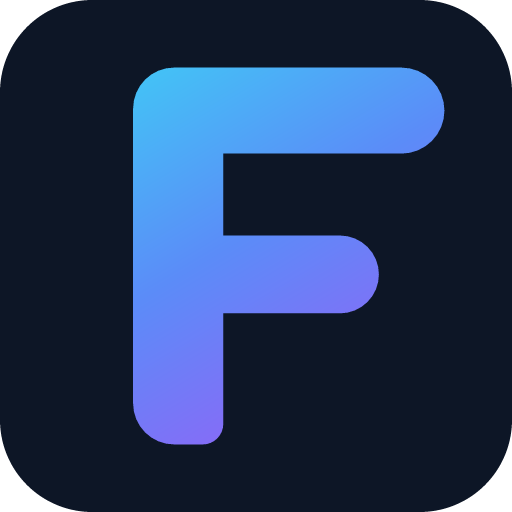
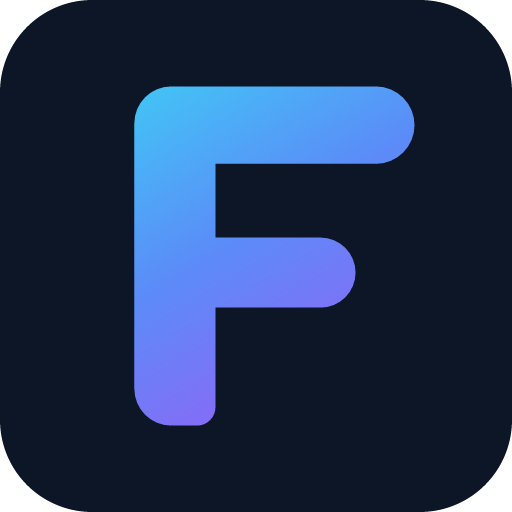
Icône : marge macOS et F recentré
macOS affiche les icônes telles quelles, sans la marge de la grille Apple, donc l'icône paraissait trop grande. Elle a maintenant sa propre image avec marge (packaging/macos/florm.png), les autres systèmes gardent une image pleine. Le F est centré sur son tracé plutôt que sur sa boîte, qui déborde à droite.

Changed region(s): [[0.25, 0.125, 0.875, 0.875]]

diff --git a/src/logo.rs b/src/logo.rs
@@ -204,8 +204,23 @@ pub fn paint_backdrop(painter: &Painter, rect: Rect, light: bool) {
     }
 }
 
-/// Window icon: navy rounded square with the gradient F, 4×4 supersampled.
-pub fn icon(size: usize) -> egui::IconData {
+/// Empty margin around the rounded square of the icon, as a fraction of its side: macOS draws
+/// icons as given (Apple's grid: an 824 px square in a 1024 px canvas), the other systems
+/// expect a full-bleed image.
+#[cfg_attr(not(any(test, target_os = "macos")), allow(dead_code))]
+pub const MACOS_INSET: f32 = 100.0 / 1024.0;
+#[cfg(target_os = "macos")]
+pub const ICON_INSET: f32 = MACOS_INSET;
+#[cfg(not(target_os = "macos"))]
+pub const ICON_INSET: f32 = 0.0;
+/// Height of the F relative to the icon's rounded square.
+const LETTER: f32 = 0.72;
+/// Horizontal point of the F (unit coordinates) put at the center of the icon.
+const LETTER_CX: f32 = 0.53;
+
+/// Window icon: navy rounded square with the gradient F, 4×4 supersampled, `inset` of empty
+/// margin around the square.
+pub fn icon(size: usize, inset: f32) -> egui::IconData {
     let pieces = pieces();
     let inside = |poly: &[Vec2], p: Vec2| {
         let n = poly.len();
@@ -221,16 +236,20 @@ pub fn icon(size: usize) -> egui::IconData {
             let (mut r, mut g, mut b, mut a) = (0.0, 0.0, 0.0, 0.0);
             for sy in 0..ss {
                 for sx in 0..ss {
-                    let u = (x as f32 + (sx as f32 + 0.5) / ss as f32) / size as f32;
-                    let v = (y as f32 + (sy as f32 + 0.5) / ss as f32) / size as f32;
+                    let side = 1.0 - 2.0 * inset;
+                    let u = ((x as f32 + (sx as f32 + 0.5) / ss as f32) / size as f32 - inset) / side;
+                    let v = ((y as f32 + (sy as f32 + 0.5) / ss as f32) / size as f32 - inset) / side;
                     // rounded square background
                     let (dx, dy) = ((u - 0.5).abs() - 0.32, (v - 0.5).abs() - 0.32);
                     let outside = Vec2::new(dx.max(0.0), dy.max(0.0)).length() - 0.18;
                     if outside > 0.0 {
                         continue;
                     }
-                    // letter scaled to 80% inside the square
-                    let p = Vec2::new((u - 0.1) / 0.8, (v - 0.1) / 0.8);
+                    // Letter scaled to LETTER inside the square. Its box (x 0.20..0.96) is wider on
+                    // the right than its ink (the stem is on the left): centering the box would
+                    // push the F to the right, centering the ink to the left, so the point halfway
+                    // between both centers goes in the middle.
+                    let p = Vec2::new((u - 0.5) / LETTER + LETTER_CX, (v - 0.5) / LETTER + 0.5);
                     let c = if pieces.iter().any(|poly| inside(poly, p)) { grad_at(p) } else { NAVY };
                     r += c.r() as f32;
                     g += c.g() as f32;
@@ -245,4 +264,17 @@ pub fn icon(size: usize) -> egui::IconData {
         }
     }
     egui::IconData { rgba, width: size as u32, height: size as u32 }
+}
+
+/// Regenerates the packaging icons: `cargo test --release write_icons -- --ignored`.
+#[cfg(test)]
+mod tests {
+    #[test]
+    #[ignore]
+    fn write_icons() {
+        for (path, inset) in [("packaging/florm.png", 0.0), ("packaging/macos/florm.png", super::MACOS_INSET)] {
+            let icon = super::icon(512, inset);
+            image::RgbaImage::from_raw(icon.width, icon.height, icon.rgba).unwrap().save(path).unwrap();
+        }
+    }
 }

diff --git a/src/main.rs b/src/main.rs
@@ -107,7 +107,7 @@ fn main() -> eframe::Result<()> {
             .with_inner_size([1280.0, 800.0])
             .with_min_inner_size([400.0, 300.0])
             .with_drag_and_drop(true)
-            .with_icon(logo::icon(64))
+            .with_icon(logo::icon(if cfg!(target_os = "macos") { 256 } else { 64 }, logo::ICON_INSET))
             .with_title("Florm"),
         // Under Wayland, with vsync, eglSwapBuffers waits for a frame callback that a hidden window
         // (other workspace, minimized) never gets: the event loop blocks and the compositor reports
